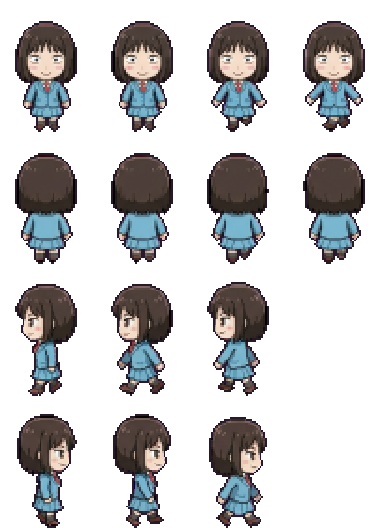
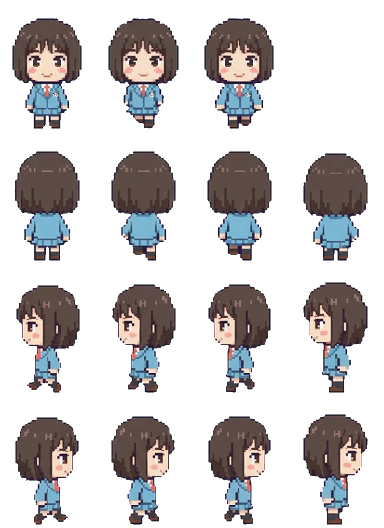
Redraw Iwakura Mitsumi in the shared art style
Claude-Session: https://claude.ai/code/session_01KaPsBYLrtbRfMYNG2xeBCK

diff --git a/docs/app.js b/docs/app.js
@@ -75,7 +75,7 @@ function spr(cat, k, col, sc) {
   return `<div class="clip" style="width:${it[2] * sc}px;height:${it[3] * sc}px;POS"><img class="px" src="assets/decor/${cat}.png" alt="" style="width:${S.sw * sc}px;height:${S.sh * sc}px;margin-left:${-col * S.cw * sc}px;margin-top:${-i * S.ch * sc}px"></div>`;
 }
 const icon = (k, sz) => `<span class="itm" style="width:${sz}px;height:${sz}px"><img class="px" src="assets/ui/items.png" alt="" style="width:${IT.length * sz}px;height:${sz}px;margin-left:${-ITM[k].i * sz}px"></span>`;
-const face = (id, w) => { const s = w / 96; return `<img class="px" src="assets/ch/${id}.webp?v=74" alt="" style="position:absolute;width:${384 * s}px;height:${528 * s}px;left:${-(96 * s - w) / 2}px;top:0;max-width:none">`; };
+const face = (id, w) => { const s = w / 96; return `<img class="px" src="assets/ch/${id}.webp?v=75" alt="" style="position:absolute;width:${384 * s}px;height:${528 * s}px;left:${-(96 * s - w) / 2}px;top:0;max-width:none">`; };
 
 // ---------- 저장 ----------
 let fb = null, user = null, S = null, saveT = null;
@@ -143,7 +143,7 @@ function sleepHTML(id, r, dy) {
   const pos = r.a && r.a[0] === 'bed' ? 'left:3%;bottom:20%' : r.b && r.b[0] === 'bed' ? 'right:3%;bottom:20%' : 'left:calc(50% - 44px);bottom:6%';
   const s = 36 / 96;
   return `<div style="position:absolute;width:88px;height:56px;${pos};z-index:${dy ? 4 : 5};${dy ? `transform:translate(12px,${dy}px)` : ''}"><div style="position:absolute;inset:0;filter:brightness(.22)">
-    <div style="position:absolute;left:11px;top:1px;width:36px;height:50px;overflow:hidden;transform:rotate(-90deg)"><img class="px" src="assets/ch/${id}.webp?v=74" alt="" style="width:${384 * s}px;height:${528 * s}px;max-width:none;margin-top:${-132 * s}px"></div>
+    <div style="position:absolute;left:11px;top:1px;width:36px;height:50px;overflow:hidden;transform:rotate(-90deg)"><img class="px" src="assets/ch/${id}.webp?v=75" alt="" style="width:${384 * s}px;height:${528 * s}px;max-width:none;margin-top:${-132 * s}px"></div>
     <div style="position:absolute;left:19px;top:19px;width:67px;height:29px;border:2px solid var(--ink);border-radius:8px 6px 4px 4px;background:#8ccff5;background-image:repeating-linear-gradient(90deg,transparent 0 10px,rgba(255,255,255,.5) 10px 13px)"></div></div>
     ${dy ? '' : '<span class="emo" style="left:8px;top:-22px;color:#5b6bd6">Z z z</span>'}</div>`;
 }
@@ -153,8 +153,8 @@ function roomHTML(id, o, scale) {
     <div class="floor" style="background-color:${PAL[r.fc][1]};background-image:${tileUrl('floor', r.fl)}"></div>
     ${slot('deco', r.dc, 'left:6%;top:6%')}${slot('furn', r.a, 'left:3%;bottom:20%')}${slot('furn', r.b, 'right:3%;bottom:20%')}${slot('prop', r.pr, 'left:28%;bottom:4%;z-index:2')}
     ${id && o.sleeping && g ? sleepHTML(g, r, -16) : ''}${id && o.sleeping ? sleepHTML(id, r) : ''}${id && o.job ? `<div style="position:absolute;left:50%;top:38%;transform:translateX(-50%);z-index:5;background:#fff;border:3px solid var(--ink);border-radius:10px;padding:6px 10px;font-size:11px;text-align:center;line-height:1.5"><img src="assets/ui/ic_job.png" alt="" style="width:18px;vertical-align:-4px"> ${WORK[id] ? WORK[id][1] : esc(JOB_NAME[id]) + ' 알바 중'}${g ? `<br><small>${esc(nameOf(g))}도 같이</small>` : ''}<br><b id="jobleft">${timeLeft(o.job.until)}</b></div>` : ''}
-    ${id ? `<div class="shadow" id="shd" ${o.sleeping || o.job ? 'style="display:none"' : ''}></div><div class="man" id="man" ${o.sleeping || o.job ? 'style="display:none"' : ''}><img class="px" src="assets/ch/${id}.webp?v=74" alt="${esc(nameOf(id))}"></div><span class="emo" id="emo" hidden></span><span class="mumble" id="mum" hidden></span>` : ''}
-    ${g ? `<div class="shadow" id="gshd" ${hideG}></div><div class="man" id="gman" ${hideG}><img class="px" src="assets/ch/${g}.webp?v=74" alt="${esc(nameOf(g))}"></div><span class="emo" id="gemo" hidden></span><span class="mumble gmum" id="gmum" hidden></span>` : ''}
+    ${id ? `<div class="shadow" id="shd" ${o.sleeping || o.job ? 'style="display:none"' : ''}></div><div class="man" id="man" ${o.sleeping || o.job ? 'style="display:none"' : ''}><img class="px" src="assets/ch/${id}.webp?v=75" alt="${esc(nameOf(id))}"></div><span class="emo" id="emo" hidden></span><span class="mumble" id="mum" hidden></span>` : ''}
+    ${g ? `<div class="shadow" id="gshd" ${hideG}></div><div class="man" id="gman" ${hideG}><img class="px" src="assets/ch/${g}.webp?v=75" alt="${esc(nameOf(g))}"></div><span class="emo" id="gemo" hidden></span><span class="mumble gmum" id="gmum" hidden></span>` : ''}
     ${o.sleeping ? `<div class="night"></div><div class="sleepleft">쿨쿨 · 일어나기까지 <b id="sleepleft">${timeLeft(wakeAt(o)).replace(' 남음', '')}</b></div>` : ''}
   </div>`;
 }
@@ -167,7 +167,7 @@ function meterHTML(o) {
 const ic = (act, img, label, pressed) => `<button class="ic" data-act="${act}" ${pressed ? 'aria-pressed="true"' : ''}><img src="assets/ui/ic_${img}.png?v=2" alt="">${label}</button>`;
 
 let dropStyle = null; const cheat = {};
-const APP_V = 147, COUPONS = { NINOGUYA: 3000 };
+const APP_V = 148, COUPONS = { NINOGUYA: 3000 };
 // 쿠폰 입력 정리: 한글 자판 상태로 친 글자(ㅜㅑㅜㅐ혀ㅛㅁ)도 영어 자판 글자로 바꾸고, 대소문자·띄어쓰기·마침표는 무시해요
 const KEY = { ㄱ: 'r', ㄲ: 'R', ㄴ: 's', ㄷ: 'e', ㄸ: 'E', ㄹ: 'f', ㅁ: 'a', ㅂ: 'q', ㅃ: 'Q', ㅅ: 't', ㅆ: 'T', ㅇ: 'd', ㅈ: 'w', ㅉ: 'W', ㅊ: 'c', ㅋ: 'z', ㅌ: 'x', ㅍ: 'v', ㅎ: 'g',
   ㅏ: 'k', ㅐ: 'o', ㅑ: 'i', ㅒ: 'O', ㅓ: 'j', ㅔ: 'p', ㅕ: 'u', ㅖ: 'P', ㅗ: 'h', ㅘ: 'hk', ㅙ: 'ho', ㅚ: 'hl', ㅛ: 'y', ㅜ: 'n', ㅝ: 'nj', ㅞ: 'np', ㅟ: 'nl', ㅠ: 'b', ㅡ: 'm', ㅢ: 'ml', ㅣ: 'l',
@@ -407,7 +407,7 @@ function startTrip(k) {
   if (tg) lines[1] = `${nameOf(tg)}: ${withHim(sub(pick(GLX(tg).trip), o, c.n), tg)}`;
   const n = (FR[id] || [4, 4, 4, 4])[3], el = document.createElement('div'); el.className = 'tripview';
   el.innerHTML = `<div class="tsay"> </div><div class="tstage" style="background-image:url(assets/travel/${k}.png?v=2)"><div class="tplace">${esc(c.n)}</div>
-    <div class="twalker"><img class="px" src="assets/ch/${id}.webp?v=74" alt=""></div>${tg ? `<div class="twalker tgirl"><img class="px" src="assets/ch/${tg}.webp?v=74" alt=""></div>` : ''}<span class="emo tjoy">♪</span></div>
+    <div class="twalker"><img class="px" src="assets/ch/${id}.webp?v=75" alt=""></div>${tg ? `<div class="twalker tgirl"><img class="px" src="assets/ch/${tg}.webp?v=75" alt=""></div>` : ''}<span class="emo tjoy">♪</span></div>
     <div class="tbar"><i></i></div><button class="btn white tskip" data-tskip="1">바로 돌아오기</button>`;
   document.body.appendChild(el);
   const gimg = el.querySelector('.tgirl img'), gn = tg ? (FR[tg] || [4, 4, 4, 4])[3] : 1;
@@ -665,7 +665,7 @@ setInterval(() => { if (S && user) { tickTime(); save(); } }, 60000);
     if (nv > APP_V && !location.search.includes('u=' + nv)) { location.replace(location.pathname + '?u=' + nv); return; }
   } catch { }
   app.innerHTML = '<div class="start"><div class="egg"><div class="scr"></div></div><div class="note">불러오는 중....</div></div>';
-  const [c, t, f, it, mu, ct, tv, gl, sts] = await Promise.all(['data/chars.json', 'data/talk.json', 'data/frames.json', 'data/items.json', 'data/mumble.json', 'data/countries.json', 'data/travel.json', 'data/girls.json', 'data/sets.json'].map(u => fetch(u + '?v=147').then(r => r.ok ? r.json() : {})));
+  const [c, t, f, it, mu, ct, tv, gl, sts] = await Promise.all(['data/chars.json', 'data/talk.json', 'data/frames.json', 'data/items.json', 'data/mumble.json', 'data/countries.json', 'data/travel.json', 'data/girls.json', 'data/sets.json'].map(u => fetch(u + '?v=148').then(r => r.ok ? r.json() : {})));
   CH = c; CHM = Object.fromEntries(c.map(x => [x.id, x])); TALK = t; FR = f; IT = it; ITM = Object.fromEntries(it.map(x => [x.k, x])); MUM = mu; CTRY = ct; TRV = tv; GL = Array.isArray(gl) ? gl : []; SETS = Array.isArray(sts) ? sts : []; GLM = Object.fromEntries(GL.map(x => [x.id, x]));
   try { await initFirebase(); } catch (e) { console.warn('Firebase 연결 실패, 기기 저장으로', e); fb = null; }
   if (fb) {

diff --git a/docs/index.html b/docs/index.html
@@ -18,6 +18,6 @@
 <main id="app" aria-live="polite"></main>
 <div id="toast" role="status" hidden></div>
 <script src="firebase-config.js?v=3"></script>
-<script type="module" src="app.js?v=147"></script>
+<script type="module" src="app.js?v=148"></script>
 </body>
 </html>
